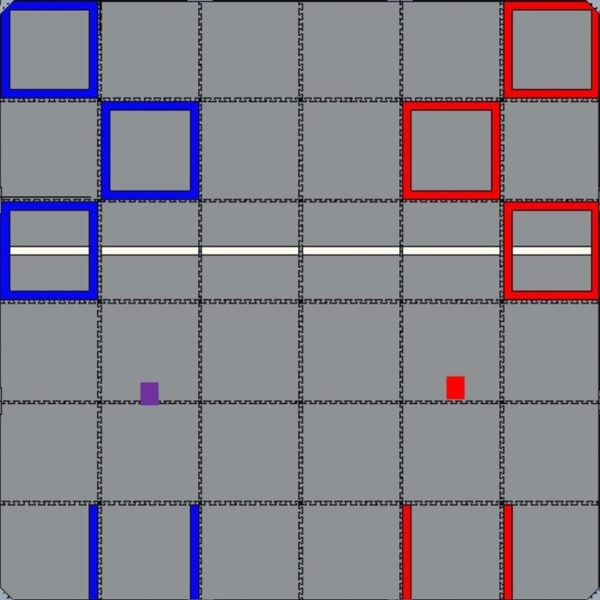
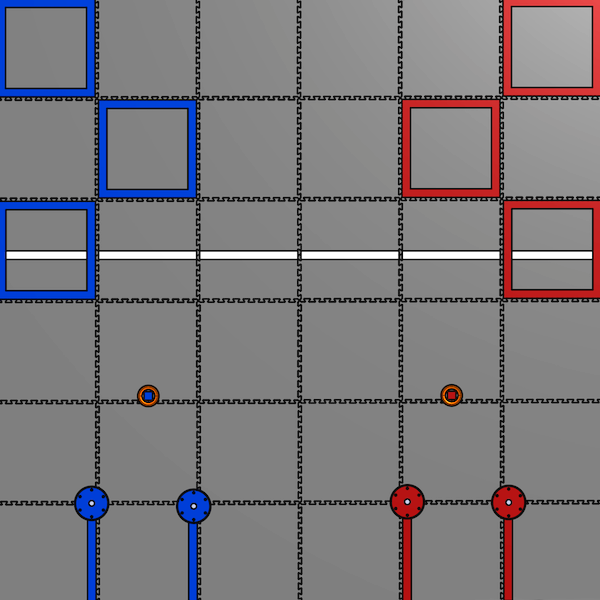
new field img, other misc improvements

Changed region(s): [[0.0, 0.0, 1.0, 1.0]]

diff --git a/src/Utilities/AutoPathsUtil.java b/src/Utilities/AutoPathsUtil.java
@@ -77,14 +77,14 @@ public class AutoPathsUtil {
                 new Waypoint(90, 68, PI/2, 10.0, -10.0, 0.0, startLineTime),
         };
         Path startLinePath = new Path(new ArrayList<>(Arrays.asList(startLineWaypoints)));
-        drawPath(startLinePath, startLineTime);
+        drawPath(startLinePath);
 
         Waypoint[] deliverWobbleWaypoints = new Waypoint[] {
                 new Waypoint(lX, lY, lTh, 40.0, 30.0, 0.0, 0.0),
                 new Waypoint(97, 96, PI/4, 50.0, -30.0, 0.0, deliverWobbleTime),
         };
         Path deliverWobblePath = new Path(new ArrayList<>(Arrays.asList(deliverWobbleWaypoints)));
-        drawPath(deliverWobblePath, deliverWobbleTime);
+        drawPath(deliverWobblePath);
 
         Waypoint[] intakeWobble2Waypoints = new Waypoint[] {
                 new Waypoint(lX, lY, lTh, -10.0, -50.0, 0.0, 0.0),
@@ -93,7 +93,7 @@ public class AutoPathsUtil {
         };
         Spline intakeWobble2ThetaSpline = new Spline(PI/4, 0.2, 0.0, 5*PI/12, 0.0, 0.0, intakeWobble2Time);
         Path intakeWobble2Path = new Path(new ArrayList<>(Arrays.asList(intakeWobble2Waypoints)), intakeWobble2ThetaSpline);
-        drawPath(intakeWobble2Path, intakeWobble2Time);
+        drawPath(intakeWobble2Path);
 
         Waypoint[] intakeStackWaypoints = new Waypoint[] {
                 new Waypoint(lX, lY, lTh, 10.0, 20.0, 0.0, 0.0),
@@ -101,7 +101,7 @@ public class AutoPathsUtil {
                 new Waypoint(109, 61, PI/2, 5.0, -20.0, 0.0, intakeStackTime),
         };
         Path intakeStackPath = new Path(new ArrayList<>(Arrays.asList(intakeStackWaypoints)));
-        drawPath(intakeStackPath, intakeStackTime);
+        drawPath(intakeStackPath);
 
         Waypoint[] deliverWobble2Waypoints = new Waypoint[] {
                 new Waypoint(lX, lY, lTh, 10.0, 30.0, 0.0, 0.0),
@@ -109,18 +109,29 @@ public class AutoPathsUtil {
         };
         Spline deliverWobble2ThetaSpline = new Spline(PI/2, 0.2, 0.0, 5*PI/4, 0.0, 0.0, deliverWobble2Time);
         Path deliverWobble2Path = new Path(new ArrayList<>(Arrays.asList(deliverWobble2Waypoints)), deliverWobble2ThetaSpline);
-        drawPath(deliverWobble2Path, deliverWobble2Time);
+        drawPath(deliverWobble2Path);
+
+//        Waypoint[] parkWaypoints = new Waypoint[] {
+//                new Waypoint(lX, lY, PI/4, -10.0, -20.0, 0.0, 0.0),
+//                new Waypoint(76, 81, PI/2, 10.0, 20.0, 0.0, parkTime),
+//        };
+//        Spline parkThetaSpline = new Spline(5*PI/4, 0.0, 0.0, PI/2, 0.0, 0.0, parkTime);
+//        Path parkPath = new Path(new ArrayList<>(Arrays.asList(parkWaypoints)), parkThetaSpline);
 
         Waypoint[] parkWaypoints = new Waypoint[] {
-                new Waypoint(lX, lY, PI/4, -10.0, -20.0, 0.0, 0.0),
-                new Waypoint(76, 81, PI/2, 10.0, 20.0, 0.0, parkTime),
+                new Waypoint(lX, lY, lTh, -10.0, -20.0, 0.0, 0.0),
+                new Waypoint(99, 84, PI/3, 10.0, 20.0, 0.0, 1.0),
+                new Waypoint(76, 81, 3*PI/2, 10.0, 20.0, 0.0, parkTime),
         };
-        Spline parkThetaSpline = new Spline(5*PI/4, 0.0, 0.0, PI/2, 0.0, 0.0, parkTime);
-        Path parkPath = new Path(new ArrayList<>(Arrays.asList(parkWaypoints)), parkThetaSpline);
-        drawPath(parkPath, parkTime);
+        Spline parkThetaSpline = new Spline(PI/4, 0.0, 0.0, 3*PI/2, 0.0, 0.0, parkTime);
+        Path parkPath = new Path(new ArrayList<>(Arrays.asList(parkWaypoints)), parkThetaSpline, true);
+        drawPath(parkPath);
+
     }
 
-    public void drawPath(Path path, double time) {
+    public void drawPath(Path path) {
+
+        double time = path.totalTime();
         for (double currentTime = 0; currentTime < time; currentTime += 0.01) {
 
             Pose curPose = path.getRobotPose(currentTime);

diff --git a/src/Utilities/RobotDataUtil.java b/src/Utilities/RobotDataUtil.java
@@ -9,8 +9,8 @@ import java.util.ArrayList;
 @SuppressWarnings("FieldCanBeLocal")
 public class RobotDataUtil {
 
-    private String basePath = "src/Logs/";
-    //private String basePath ="C:/Users/jonat/Downloads/motorola-moto_e__4_-192.168.49.1_7303/sdcard/FIRST/robotLogs/";
+    //private String basePath = "src/Logs/";
+    private String basePath = "C:/Users/jonat/Downloads/rev_robotics-control_hub_v1_0-192.168.43.1_5555/sdcard/FIRST/robotLogs/";
     private BufferedReader bufferedReader;
 
     private ArrayList<DataPoint> dataArray;
@@ -34,7 +34,7 @@ public class RobotDataUtil {
                     dataArray.add(new DataPoint(Double.parseDouble(data[1]), Double.parseDouble(data[2]), Double.parseDouble(data[3]),
                             Double.parseDouble(data[4]), Double.parseDouble(data[5]), Double.parseDouble(data[6]),
                             Double.parseDouble(data[7]), Double.parseDouble(data[8]), Double.parseDouble(data[9]),
-                            Double.parseDouble(data[10]), Double.parseDouble(data[11])));
+                            Double.parseDouble(data[10]), Integer.parseInt(data[11]), Boolean.parseBoolean(data[12]), Boolean.parseBoolean(data[13])));
                 }
                 lineNum++;
             }

diff --git a/src/Utilities/DataPoint.java b/src/Utilities/DataPoint.java
@@ -2,12 +2,14 @@ package Utilities;
 
 public class DataPoint {
     public final double sinceStart, x, y, theta, velocityX, velocityY, velocityTheta,
-        accelX, accelY, accelTheta, numRings;
+        accelX, accelY, accelTheta;
+    public final int numRings;
+    public final boolean magHome, feedHome;
 
     public DataPoint(double sinceStart, double x, double y, double theta,
                      double velocityX, double velocityY, double velocityTheta,
                      double accelX, double accelY, double accelTheta,
-                     double numRings) {
+                     int numRings, boolean magHome, boolean feedHome) {
         this.sinceStart = sinceStart;
         this.x = x;
         this.y = y;
@@ -19,5 +21,7 @@ public class DataPoint {
         this.accelY = accelY;
         this.accelTheta = accelTheta;
         this.numRings = numRings;
+        this.magHome = magHome;
+        this.feedHome = feedHome;
     }
 }

diff --git a/src/App/PathPlanner.java b/src/App/PathPlanner.java
@@ -79,14 +79,14 @@ public class PathPlanner extends PlannerBase {
             currentWaypoints.add(waypoint);
             System.out.println(currentWaypoints);
             Path path = new Path(currentWaypoints);
-            pathsUtil.drawPath(path, currentWaypoints.get(currentWaypoints.size() - 1).time);
+            pathsUtil.drawPath(path);
             robot.toFront();
         });
 
         finish.setOnAction(e -> {
             copyPathWindow(currentWaypoints);
             Path path = new Path(currentWaypoints);
-            pathsUtil.drawPath(path, currentWaypoints.get(currentWaypoints.size() - 1).time);
+            pathsUtil.drawPath(path);
             currentWaypoints = null;
             robot.toFront();
             finish.setVisible(false);

diff --git a/src/PathingFiles/Path.java b/src/PathingFiles/Path.java
@@ -10,6 +10,7 @@ public class Path {
 
     private Spline thetaSpline = null;
     private boolean addPi = false;
+    public double totalTime() { return totaltime; }
 
     public Path(ArrayList<Waypoint> waypoints){
         //defining waypoint arraylist
